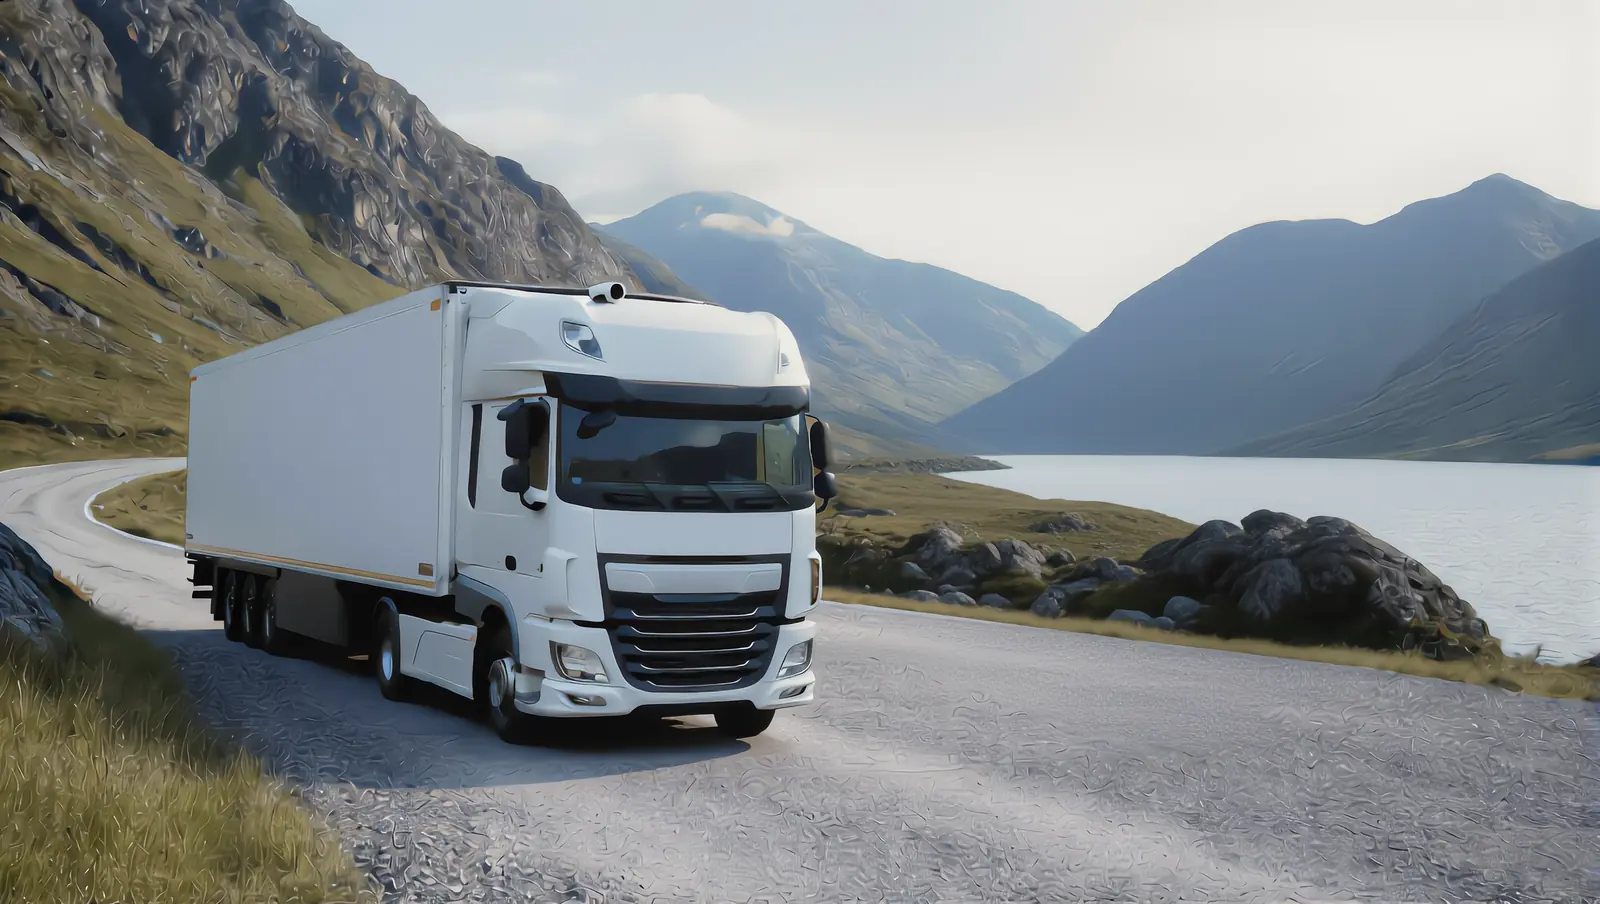
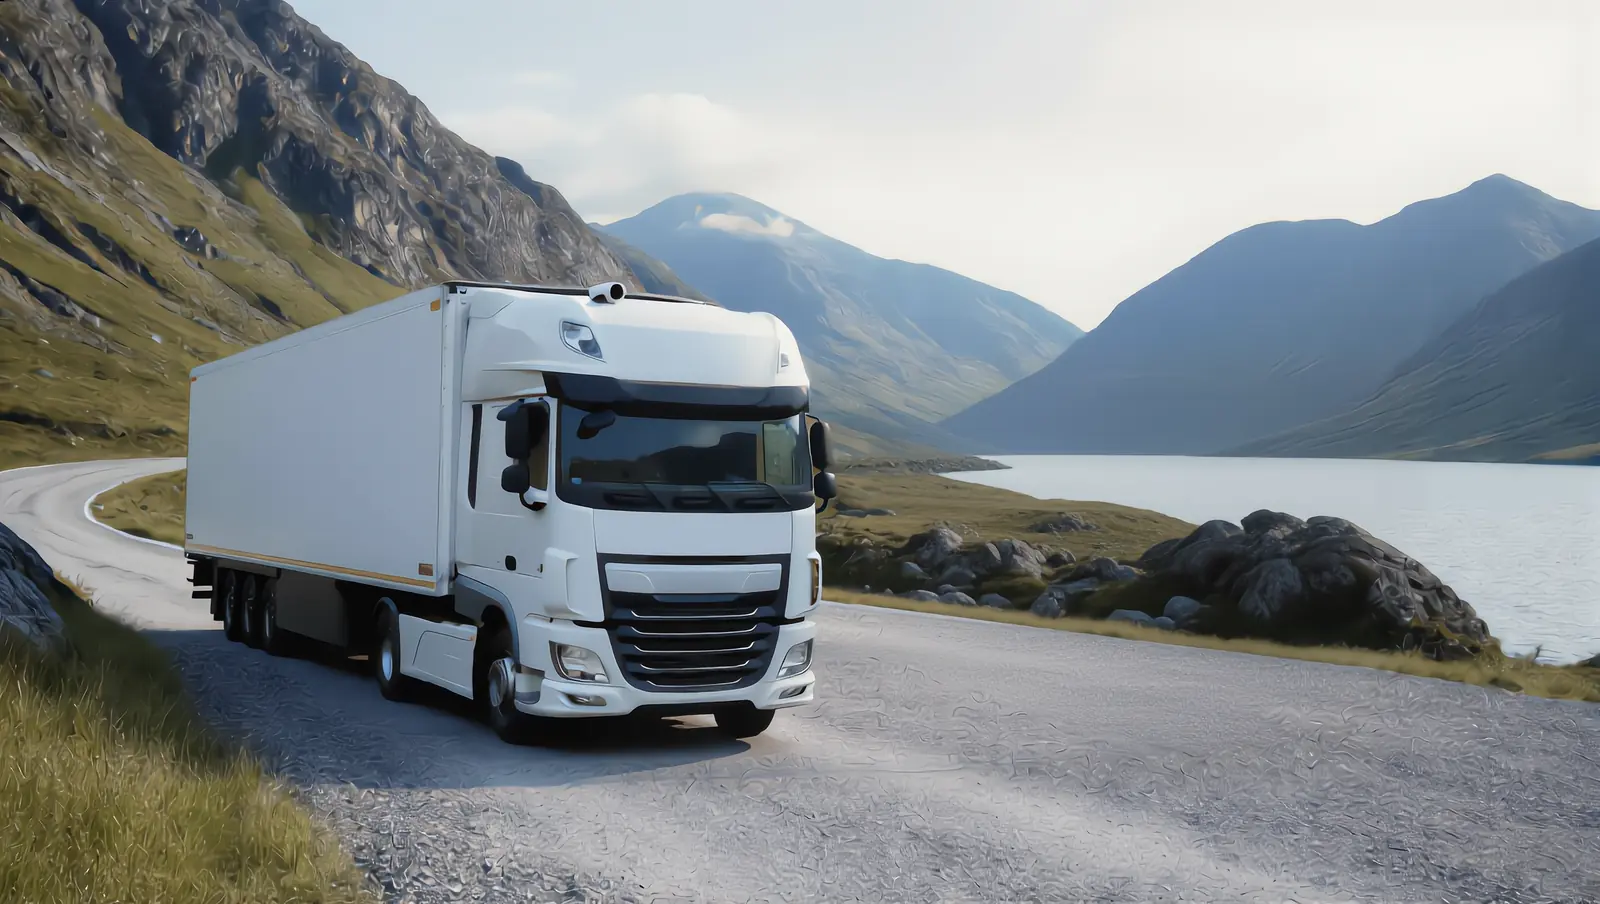
Fix flicker on /choose/
- crossfade dimmed the frame: two half-transparent layers over a dark background
  (sky brightness dropped 124 -> 96 on every switch). Now choose-both stays opaque
  at the bottom, the new layer fades in on top and the layers below are hidden
  instantly afterwards; brightness stays at 123-124
- AI re-rendered texture made the whole frame shimmer: truck/bus layers are now
  built from intro-photo.png, replacing only the removed vehicle's area
  (feathered masks: truck layer 1440,600-2420,1265 + 1000,1075-2320,1325;
  bus layer 280,430-1460,1305 + 0,700-1460,1330, blur 0x22); lit layers add only
  the headlights and road glow on top of them
- preloaded layers are decoded up front so the first show is never blank

Claude-Session: https://claude.ai/code/session_01QnLGxmMJTS6H4BxBkXsJMw

diff --git a/src/choose/choose.js b/src/choose/choose.js
@@ -7,6 +7,7 @@
   const SWITCH_DELAY = 150;   // мс: задержка перед сменой стороны
   const LIT_HOLD = 1600;      // мс: сколько горят фары до затемнения
   const FADE_OUT = 500;       // мс: затемнение перед переходом (как .blackout в choose.css)
+  const FADE_IN = 400;        // мс: проявление слоя (как transition у .layer в choose.css)
   const IMG_W = 2720, IMG_H = 1536; // размер исходных фото
 
   const root = document.getElementById('choose');
@@ -21,9 +22,29 @@
   const sceneLayers = {};
   scene.querySelectorAll('.layer').forEach((img) => { sceneLayers[img.dataset.layer] = img; });
 
+  // Без мерцания: нижний слой (обе машины) всегда непрозрачный, новый слой проявляется ПОВЕРХ текущего,
+  // и только после этого слои под ним мгновенно прячутся. Двух полупрозрачных слоёв над тёмным фоном не бывает.
+  let zTop = 1, hideTimer = 0;
+  function hideInstantly(img) {
+    img.classList.add('is-instant');
+    img.classList.remove('is-on');
+    void img.offsetWidth; // применить без анимации
+    img.classList.remove('is-instant');
+  }
   function showScene(name) {
-    for (const [k, img] of Object.entries(sceneLayers)) img.classList.toggle('is-on', k === name);
     root.dataset.shown = name;
+    clearTimeout(hideTimer);
+    const top = sceneLayers[name];
+    if (name === 'both') { // верхние слои плавно гаснут, под ними уже готовый кадр
+      for (const [k, img] of Object.entries(sceneLayers)) if (k !== 'both') img.classList.remove('is-on');
+      return;
+    }
+    top.style.zIndex = ++zTop;
+    top.classList.add('is-on');
+    hideTimer = setTimeout(() => {
+      for (const [k, img] of Object.entries(sceneLayers)) if (k !== 'both' && img !== top) hideInstantly(img);
+      top.style.zIndex = zTop = 2; // под ним никого не осталось — сбрасываем счётчик
+    }, reduceMotion ? 0 : FADE_IN);
   }
 
   // Подгрузка остальных кадров сразу после загрузки страницы: при наведении не будет пустого кадра
@@ -33,6 +54,7 @@
       img.srcset = img.dataset.srcset;
       img.removeAttribute('data-srcset');
       img.loading = 'eager';
+      img.decode().catch(() => {}); // декодируем заранее, чтобы первый показ не дал пустой кадр
     });
   }
   if (document.readyState === 'complete') preload(); else addEventListener('load', preload);
@@ -125,7 +147,7 @@
 
     if (panel) {
       document.querySelectorAll('.panel').forEach((p) => p.classList.toggle('is-hidden', p !== panel));
-      panel.querySelectorAll('.layer').forEach((img) => img.classList.toggle('is-on', img.dataset.layer === `${side}-lit`));
+      panel.querySelector(`.layer[data-layer="${side}-lit"]`).classList.add('is-on'); // поверх кадра без фар
     } else {
       shown = side;
       showScene(`${side}-lit`);
@@ -145,10 +167,11 @@
     if (!e.persisted) return;
     chosen = false; shown = 'both'; pending = null;
     root.classList.remove('is-chosen', 'is-leaving');
-    showScene('both');
+    for (const [k, img] of Object.entries(sceneLayers)) if (k !== 'both') hideInstantly(img);
+    root.dataset.shown = 'both';
     document.querySelectorAll('.panel').forEach((p) => {
       p.classList.remove('is-hidden');
-      p.querySelectorAll('.layer').forEach((img) => img.classList.toggle('is-on', !img.dataset.layer.endsWith('-lit')));
+      p.querySelectorAll('.layer[data-layer$="-lit"]').forEach(hideInstantly);
     });
   });
 })();

diff --git a/src/choose/choose.css b/src/choose/choose.css
@@ -14,9 +14,11 @@ body { font: 16px/1.4 system-ui, -apple-system, "Segoe UI", Roboto, sans-serif; 
   pointer-events: none; user-select: none;
 }
 .layer.is-on { opacity: 1; }
+.layer.is-instant { transition: none; }
+.layer[data-layer="both"] { z-index: 0; } /* всегда видна снизу */
 
-.scene { position: absolute; inset: 0; }
-.halves { position: absolute; inset: 0; display: flex; }
+.scene { position: absolute; inset: 0; z-index: 0; } /* свой контекст наложения для слоёв */
+.halves { position: absolute; inset: 0; z-index: 100; display: flex; }
 .half {
   position: relative; height: 100%; margin: 0; padding: 0; border: 0;
   background: none; color: inherit; font: inherit; cursor: pointer;

diff --git a/CLAUDE.md b/CLAUDE.md
@@ -83,9 +83,16 @@
 - Пять слоёв одного кадра (одинаковые размер и кадрирование, переключение — прозрачностью ~400 мс):
   `choose-both` (обе машины), `choose-truck`, `choose-bus` (одна машина), `choose-truck-lit`, `choose-bus-lit` (фары горят).
   Каждая в двух ширинах: `-1600.webp` и `-2720.webp` (2720 — ширина исходника, больше не растягиваем).
-- Исходники лежат в `assets-src/choose/`. «Светящиеся» версии — `*-light-updated.png`: это фото без фар,
-  на которое перенесены только фары и свет на дороге из `*-light.png` (в сгенерированном `intro-truck-only-light.png`
-  пропали камни у озера). Пересобрать WebP: `convert <png> -resize 1600x -quality 78 -define webp:method=6 <webp>`.
+- Исходники лежат в `assets-src/choose/`. ИИ перерисовывает мелкую текстуру на каждом фото — при смене слоёв кадр
+  «кипел». Поэтому все слои собраны из ОДНОГО кадра `intro-photo.png`:
+  `intro-only-truck-updated.png` / `intro-only-bus-updated.png` — общий кадр, где только область убранной машины
+  (с тенью, мягкий край) взята из `intro-only-*.png`; `*-light-updated.png` — эти слои плюс только фары и свет
+  на дороге из `*-light.png`. Вне зоны машины все слои совпадают с общим кадром до пикселя. Области масок —
+  в описании коммита «Fix flicker on /choose/». Пересобрать WebP:
+  `convert <png> -resize 1600x -quality 78 -define webp:method=6 <webp>`.
+- Смена слоёв без мерцания: нижний слой `choose-both` всегда непрозрачный, новый слой проявляется ПОВЕРХ текущего,
+  и только потом слои под ним мгновенно прячутся (`showScene` в `choose.js`). Не делать встречное затухание двух
+  слоёв: в середине оба полупрозрачные и кадр темнеет.
 - Десктоп: наведение или фокус с клавиатуры на половину — остаётся одна машина; клик — фары, звук, через 1,6 с
   затемнение и переход на `/ru/?vehicle=truck|bus#ride`; выбор сохраняется в `localStorage.vehicle`.
 - Граница половин — константа `SPLIT` в `choose.js` (доля ширины фото, сейчас 0.53: пустой промежуток между
